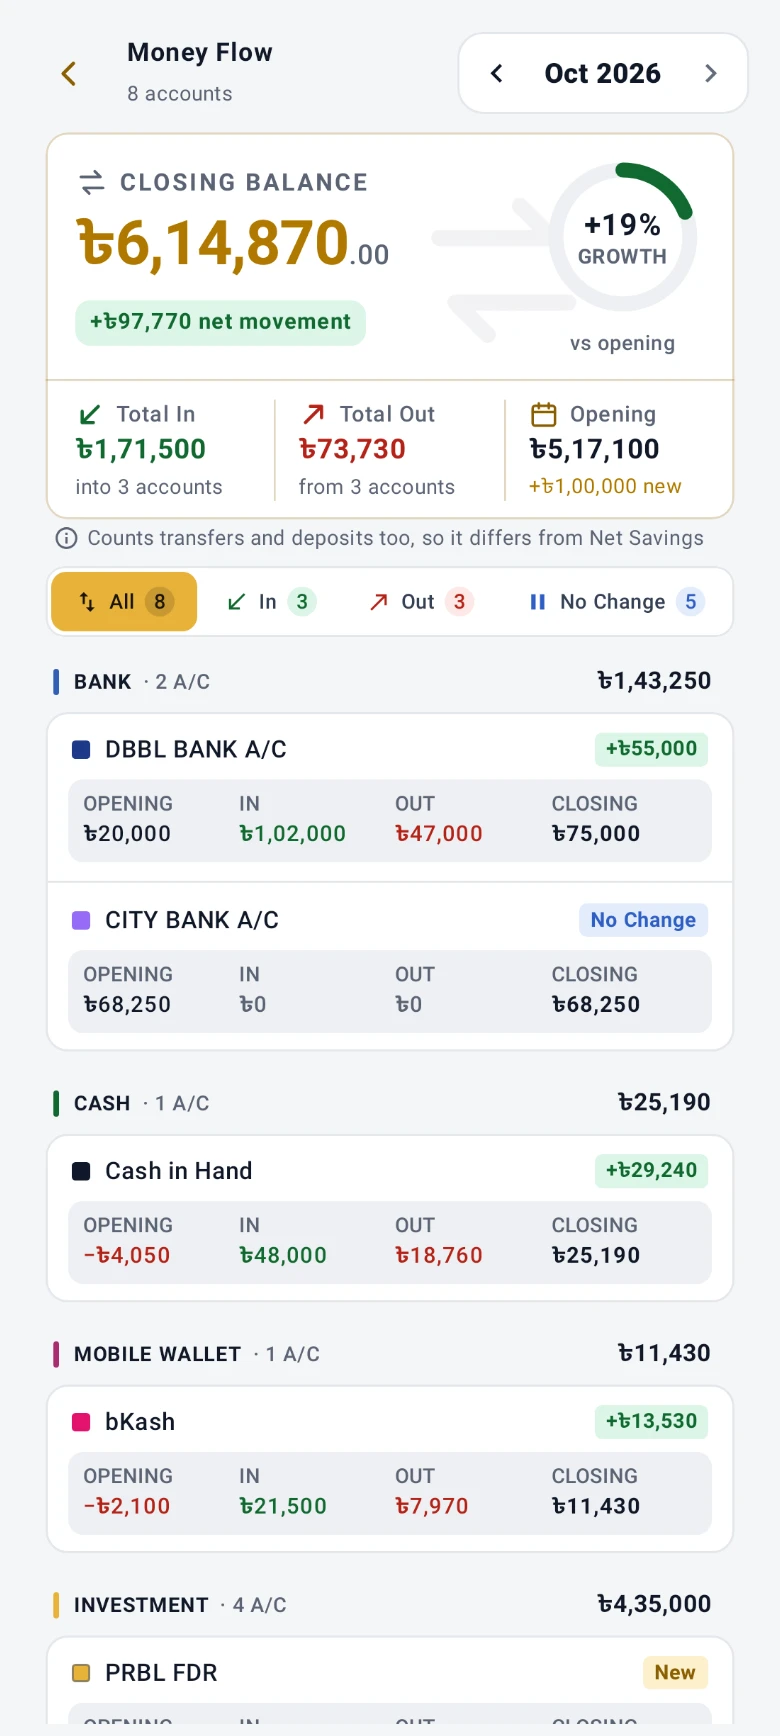
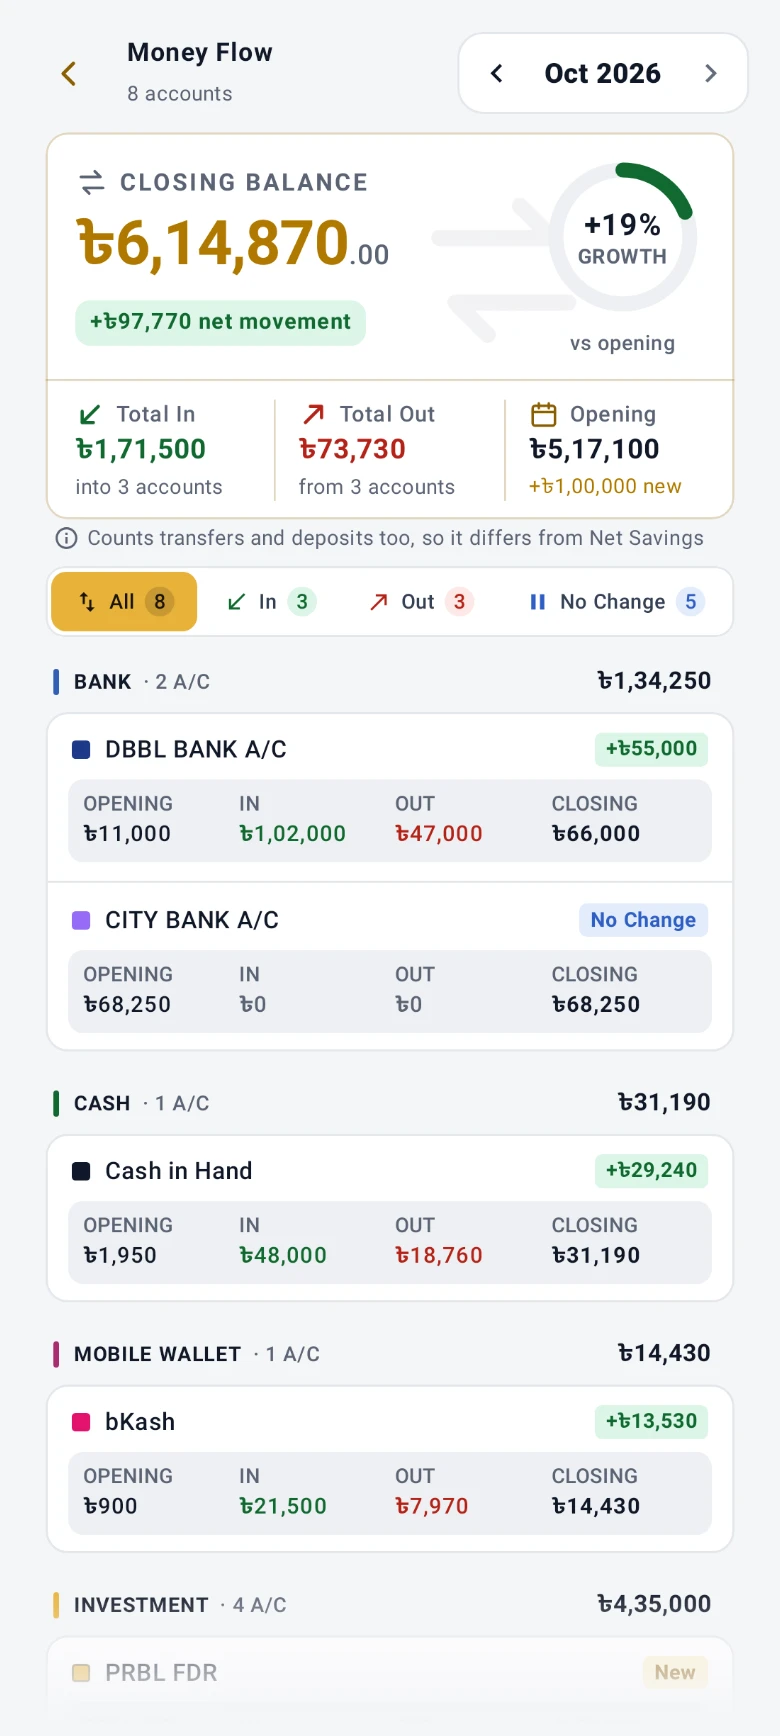
Website 2.25.20: step 1 retaken; Money Flow's openings and cut lists fixed
The install guide's step 1 picture showed Chrome's warning for
LedgerBook_v1.1.72.apk at 2.79 MB; taken again on Pixel_10's Chrome
it reads LedgerBook.apk, 6.37 MB, and the step quotes the warning as
"might be harmful", as Chrome writes it.

Money Flow opened October on Cash in Hand at -৳4,050 and bKash at
-৳2,100: gallery-changes.js gave last month cash and bKash spending
they had no money for. It now funds them from DBBL just after that
month's salary; net worth is unchanged.

Transactions, Accounts and Money Flow ran off the foot of the screen
through a card and then the gap; towebp.js fades their last 140px into
the screen's colour, the owner's choice from three endings. 20
pictures and the share picture rendered again from app 2.2.5; the
other 24 came out byte for byte the same.

2.25.19's commit in the changelog.

diff --git a/_tools/towebp.js b/_tools/towebp.js
@@ -5,6 +5,9 @@
 // (the PIN keypad) ends in a border line one colour across the whole width: the gap used to be
 // filled with that line's colour, a pale band under the keypad, so the panel's own row is carried
 // down over the line and the gap instead (site 2.25.5).
+// A list that runs off the foot of the screen (Transactions, Accounts, Money Flow) was cut through
+// a card and then the gap, which read as a broken picture; since site 2.25.20 its last 140px fade
+// into the screen's colour, the owner's choice from three endings.
 // Usage: node towebp.js <contrast folder> <out folder>. From the site 2.21.0-2.25.5 renders.
 const fs = require('fs'), path = require('path'), { execFileSync } = require('child_process');
 const [src, out] = process.argv.slice(2);
@@ -12,13 +15,14 @@ const CHROME = 'C:/Program Files/Google/Chrome/Application/chrome.exe';
 const scenes = { home: '03-01-Home', txn: '05-Transactions', accounts: '07-Accounts-All', loans: '09-Loans-Given',
   analytics: '06-Analytics', backup: '11-Backups-On', invest: '07-Accounts-Tab-Invest', flow: '06-Money-Flow' };
 const steps = { name: '01-02-Welcome-Name-Typed', create: '01-04-Create-PIN', confirm: '01-05-Confirm-PIN' };
+const fades = new Set(['txn', 'accounts', 'flow']);
 const jobs = [];
 for (const [k, s] of Object.entries(scenes)) for (const t of ['light', 'dark']) for (const bn of [false, true])
-  jobs.push([`app-${k}-${t}${bn ? '-bn' : ''}.webp`, `${s}${bn ? '-bn' : ''}-${t}-yellow.png`, `${s}-${t}-yellow.png`]);
+  jobs.push([`app-${k}-${t}${bn ? '-bn' : ''}.webp`, `${s}${bn ? '-bn' : ''}-${t}-yellow.png`, `${s}-${t}-yellow.png`, fades.has(k)]);
 for (const [k, s] of Object.entries(steps)) for (const t of ['light', 'dark']) for (const bn of [false, true])
   jobs.push([`step4-${k}-${t}${bn ? '-bn' : ''}.webp`, `${s}${bn ? '-bn' : ''}-${t}-yellow.png`, `${s}-${t}-yellow.png`]);
 const html = path.join(out, 'job.html');
-for (const [name, want, fallback] of jobs) {
+for (const [name, want, fallback, fade] of jobs) {
   if (!fs.existsSync(path.join(src, fallback))) { console.log(name, 'MISSING', fallback); continue; }
   let f = path.join(src, want), copy = false;
   if (!fs.existsSync(f)) { f = path.join(src, fallback); copy = true; }
@@ -35,6 +39,7 @@ const W=i.naturalWidth,H=i.naturalHeight,last=q.getImageData(0,H-1,W,1).data,abo
 let line=above[0]!==last[0]||above[1]!==last[1]||above[2]!==last[2];
 for(let n=4;line&&n<last.length;n+=4)if(last[n]!==last[0]||last[n+1]!==last[1]||last[n+2]!==last[2])line=false;
 if(line){const y=T+Math.floor(h*(H-8)/H);x.imageSmoothingEnabled=false;x.drawImage(p,0,H-8,W,1,l,y,w,1736-y);}
+if(${fade}){const F=140,y=1736-B-F,c0='rgba('+bot[0]+','+bot[1]+','+bot[2]+',';const g=x.createLinearGradient(0,y,0,1736-B);g.addColorStop(0,c0+'0)');g.addColorStop(1,c0+'1)');x.fillStyle=g;x.fillRect(0,y,780,F);}
 o.textContent='@@'+c.toDataURL('image/webp',0.9)+'@@';});</script>`);
   const dom = execFileSync(CHROME, ['--headless=new', '--disable-gpu', '--virtual-time-budget=5000', '--dump-dom', 'file:///' + html.split(path.sep).join('/')],
     { encoding: 'utf8', maxBuffer: 64 << 20 });

diff --git a/install.html b/install.html
@@ -114,11 +114,11 @@
     <article class="step step-split" id="step-1">
       <div class="step-copy">
         <h2 class="num-title"><span class="num-badge">1</span><span data-s="step1Head">Download the file</span></h2>
-        <p data-s="step1Body">Tap the download button. Chrome may say the file "may be harmful" — it says that about every APK. Choose Download anyway.</p>
+        <p data-s="step1Body">Tap the download button. Chrome may say the file "might be harmful" — it says that about every APK. Choose Download anyway.</p>
         <p class="warn-chip"><svg class="ico" viewBox="0 0 24 24" aria-hidden="true"><path d="M10.3 3.9 1.8 18a2 2 0 0 0 1.7 3h17a2 2 0 0 0 1.7-3L13.7 3.9a2 2 0 0 0-3.4 0z"/><path d="M12 9v4M12 17h.01"/></svg><span data-s="warn1">Expected warning 1 of 2</span></p>
       </div>
       <div class="step-pics">
-        <figure class="pic"><div class="still"><img src="assets/screens/step1-download.webp" alt="" loading="lazy" width="1062" height="597"></div><figcaption data-s="cap1">Chrome says this about every APK. Choose Download anyway.</figcaption></figure>
+        <figure class="pic"><div class="still"><img src="assets/screens/step1-download.webp" alt="" loading="lazy" width="1062" height="587"></div><figcaption data-s="cap1">Chrome says this about every APK. Choose Download anyway.</figcaption></figure>
       </div>
     </article>
 
@@ -234,7 +234,7 @@
       <p data-s="footerNote">Built for keeping one household’s books. No trackers on this page.</p>
     </div>
     <p class="foot-links">
-      <span class="foot-ver" data-site-version>Website v2.25.19</span>
+      <span class="foot-ver" data-site-version>Website v2.25.20</span>
       <a href="privacy.html" data-s="navPrivacy">Privacy</a>
       <a href="install.html" data-s="navInstall">How to install</a>
     </p>

diff --git a/assets/strings.js b/assets/strings.js
@@ -210,9 +210,9 @@ const S = {
                  'come from the Play Store, not because of anything about this one.',
                  'চার ধাপ, মোটামুটি দুই মিনিট। মাঝে ফোন দুবার সতর্ক করবে — দুটিই স্বাভাবিক। প্লে স্টোরের বাইরের যেকোনো অ্যাপেই এমন বার্তা আসে, এই অ্যাপের কোনো সমস্যার কারণে নয়।'],
   step1Head:    ['Download the file', 'ফাইলটি ডাউনলোড করুন'],
-  step1Body:    ['Tap the download button. Chrome may say the file "may be harmful" — ' +
+  step1Body:    ['Tap the download button. Chrome may say the file "might be harmful" — ' +
                  'it says that about every APK. Choose Download anyway.',
-                 'ডাউনলোড বোতামে চাপুন। ক্রোম হয়তো বলবে ফাইলটি "may be harmful" — যেকোনো APK-তেই সে এটি বলে। Download anyway বেছে নিন।'],
+                 'ডাউনলোড বোতামে চাপুন। ক্রোম হয়তো বলবে ফাইলটি "might be harmful" — যেকোনো APK-তেই সে এটি বলে। Download anyway বেছে নিন।'],
   step2Head:    ['Open it', 'ফাইলটি খুলুন'],
   step2Body:    ['Open the downloaded file. Android says this source is not allowed to ' +
                  'install apps yet. Tap **Settings** — not Cancel — and turn on **Allow from ' +

diff --git a/_tools/gallery-changes.js b/_tools/gallery-changes.js
@@ -84,6 +84,11 @@ edit('GalleryTest.kt', [
     val prevStart = java.util.Calendar.getInstance().apply { timeInMillis = monthStart; add(java.util.Calendar.MONTH, -1) }.timeInMillis
     fun pt(f: Double) = prevStart + ((now - monthStart) * f).toLong()
     j.postIncome("Salary", "", "Salary", pt(0.05), null, 0L, acc(dbbl), takaToPaisa(50000.0))
+    // Website render only (site 2.25.20): cash and bKash funded from the salary before last
+    // month's spending, which they paid out of nothing until then -- Money Flow opened October
+    // on Cash in Hand at -৳4,050 and bKash at -৳2,100.
+    j.postMove("Withdrawal", "", pt(0.07), acc(dbbl), acc(cash), takaToPaisa(6000.0), sourceType = st.WITHDRAWAL)
+    j.postMove("Transfer", "", pt(0.08), acc(dbbl), acc(bkash), takaToPaisa(3000.0), sourceType = st.TRANSFER)
     j.postExpense("Rent", "", "Rent", pt(0.1), acc(dbbl), takaToPaisa(18000.0))
     j.postExpense("Bills", "", "Bills", pt(0.35), acc(bkash), takaToPaisa(2100.0))
     j.postExpense("Bazar", "", "Bazar", pt(0.6), acc(cash), takaToPaisa(3100.0))

diff --git a/features.html b/features.html
@@ -324,7 +324,7 @@
       <p data-s="footerNote">Built for keeping one household’s books. No trackers on this page.</p>
     </div>
     <p class="foot-links">
-      <span class="foot-ver" data-site-version>Website v2.25.19</span>
+      <span class="foot-ver" data-site-version>Website v2.25.20</span>
       <a href="privacy.html" data-s="navPrivacy">Privacy</a>
       <a href="install.html" data-s="navInstall">How to install</a>
     </p>

diff --git a/index.html b/index.html
@@ -355,7 +355,7 @@
       <p data-s="footerNote">Built for keeping one household’s books. No trackers on this page.</p>
     </div>
     <p class="foot-links">
-      <span class="foot-ver" data-site-version>Website v2.25.19</span>
+      <span class="foot-ver" data-site-version>Website v2.25.20</span>
       <a href="privacy.html" data-s="navPrivacy">Privacy</a>
       <a href="install.html" data-s="navInstall">How to install</a>
     </p>

diff --git a/privacy.html b/privacy.html
@@ -219,7 +219,7 @@
       <p data-s="footerNote">Built for keeping one household’s books. No trackers on this page.</p>
     </div>
     <p class="foot-links">
-      <span class="foot-ver" data-site-version>Website v2.25.19</span>
+      <span class="foot-ver" data-site-version>Website v2.25.20</span>
       <a href="privacy.html" data-s="navPrivacy">Privacy</a>
       <a href="install.html" data-s="navInstall">How to install</a>
     </p>

diff --git a/assets/site.js b/assets/site.js
@@ -30,7 +30,7 @@ document.documentElement.classList.add('js');
  * number for a fix to what is there, the middle one for a new page, section or feature.
  * The app's version is a separate thing and comes from the releases API.
  */
-const SITE_VERSION = '2.25.19';
+const SITE_VERSION = '2.25.20';
 
 const LANGS = { en: 0, bn: 1 };
 // The language actually on the page. Where storage is blocked the saved choice cannot

diff --git a/CHANGELOG.md b/CHANGELOG.md
@@ -12,7 +12,8 @@ Counted back over the history when the number was introduced; repository houseke
 
 | Version | Date | Commit | What |
 |---|---|---|---|
-| 2.25.19 | 2026-11-19 | — | Gold words on the light page are the page's ink with a gold line: the links (privacy, the install guide after a download) keep a gold underline, the language button, FAQ questions and the install contents gain one under the pointer, the Features jump pills keep a gold border, and the theme button turns the icons' deeper gold; the gold written on white measured 1.93. Dark unchanged. The owner's choice from three designs. And 2.25.18's commit in the changelog |
+| 2.25.20 | 2026-11-19 | — | The install guide's step 1 picture taken again: Chrome's warning named LedgerBook_v1.1.72.apk at 2.79 MB, it now shows LedgerBook.apk at 6.37 MB, and the step quotes it as "might be harmful", as Chrome writes it. Money Flow no longer opens October on Cash in Hand at -৳4,050 and bKash at -৳2,100: the sample ledger's last-month spending is funded first (net worth unchanged; Bank, Cash and Mobile now ৳1,34,250, ৳31,190 and ৳14,430). The three lists that run off the foot of the screen (Transactions, Accounts, Money Flow) fade out instead of ending through a card, the owner's choice from three endings; 20 pictures and the share picture rendered again from app 2.2.5. And 2.25.19's commit in the changelog |
+| 2.25.19 | 2026-11-19 | a89cd9f | Gold words on the light page are the page's ink with a gold line: the links (privacy, the install guide after a download) keep a gold underline, the language button, FAQ questions and the install contents gain one under the pointer, the Features jump pills keep a gold border, and the theme button turns the icons' deeper gold; the gold written on white measured 1.93. Dark unchanged. The owner's choice from three designs. And 2.25.18's commit in the changelog |
 | 2.25.18 | 2026-11-19 | 46c4801 | The home page's "Read the install guide" link in the icons' deeper gold on the light page (5.65; the gold measured 1.93 on the white card), gold as before on dark (9.53), the owner's choice from three designs. And 2.25.17's commit in the changelog |
 | 2.25.17 | 2026-11-19 | 8d4e4be | The labels over the home page's headings are gold pills with dark words on both themes (9.46), as the pill over the Features and Install titles, the owner's choice from four designs; gold words on the light page measured 1.85. And 2.25.16's commit in the changelog |
 | 2.25.16 | 2026-11-19 | 50dd33b | The install page's SHA-256 is written in the page's ink on the light theme (#0F172A, 16.3), as the home page's release card writes it; gold on its pale panel measured about 1.8, and the fingerprint is read one character at a time. The dark theme keeps it gold. And 2.25.15's commit in the changelog |

diff --git a/README.md b/README.md
@@ -55,7 +55,7 @@ read — the ink is a step deeper for exactly that reason. The app hit this same
 
 ## The website's version
 
-Every footer says "Website v2.25.19". `CHANGELOG.md` lists every version and what it was. The number lives once, as SITE_VERSION at the top of
+Every footer says "Website v2.25.20". `CHANGELOG.md` lists every version and what it was. The number lives once, as SITE_VERSION at the top of
 `assets/site.js`, and is raised on every publish: the last part for a fix to what is
 there, the middle part for a new page, section or feature. It is the site's own version and
 has nothing to do with the app's.
@@ -112,3 +112,9 @@ data was copied off with run-as, the app uninstalled, the release downloaded thr
 site's own get.html in the emulator's Chrome and walked up to Play Protect's "This app looks
 safe", then declined; the debug build went back on and the data was restored, and the
 ledger reads as it did (net 1,96,170). Do the same next time -- back the data up first.
+
+Step 1 alone was taken again for app 2.2.6 (site 2.25.20), when it still showed
+LedgerBook_v1.1.72.apk at 2.79 MB: Chrome's warning needs no install, so get.html was opened
+in Pixel_10's Chrome, the dialog captured with the system set to light for the moment
+(`cmd uimode night no`, then `yes` again) and cancelled. The dialog is cut with an 18px margin
+filled in the dimmed page's grey. Chrome no longer draws the warning triangle.
